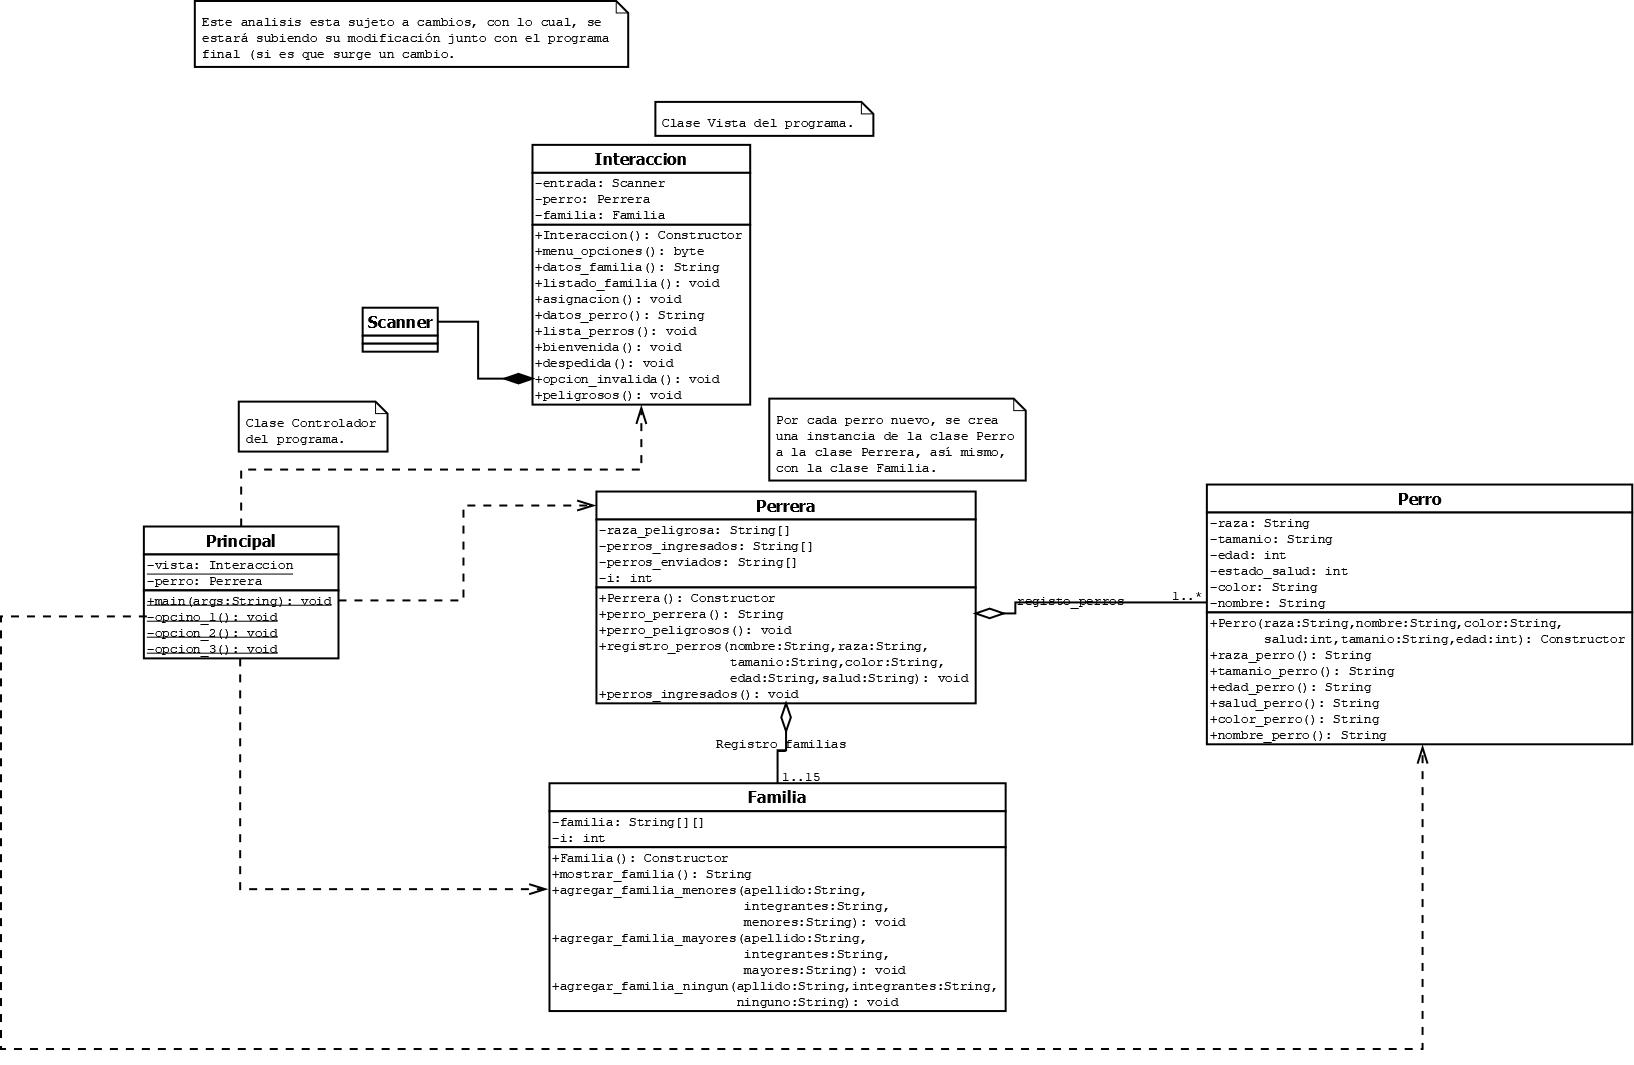
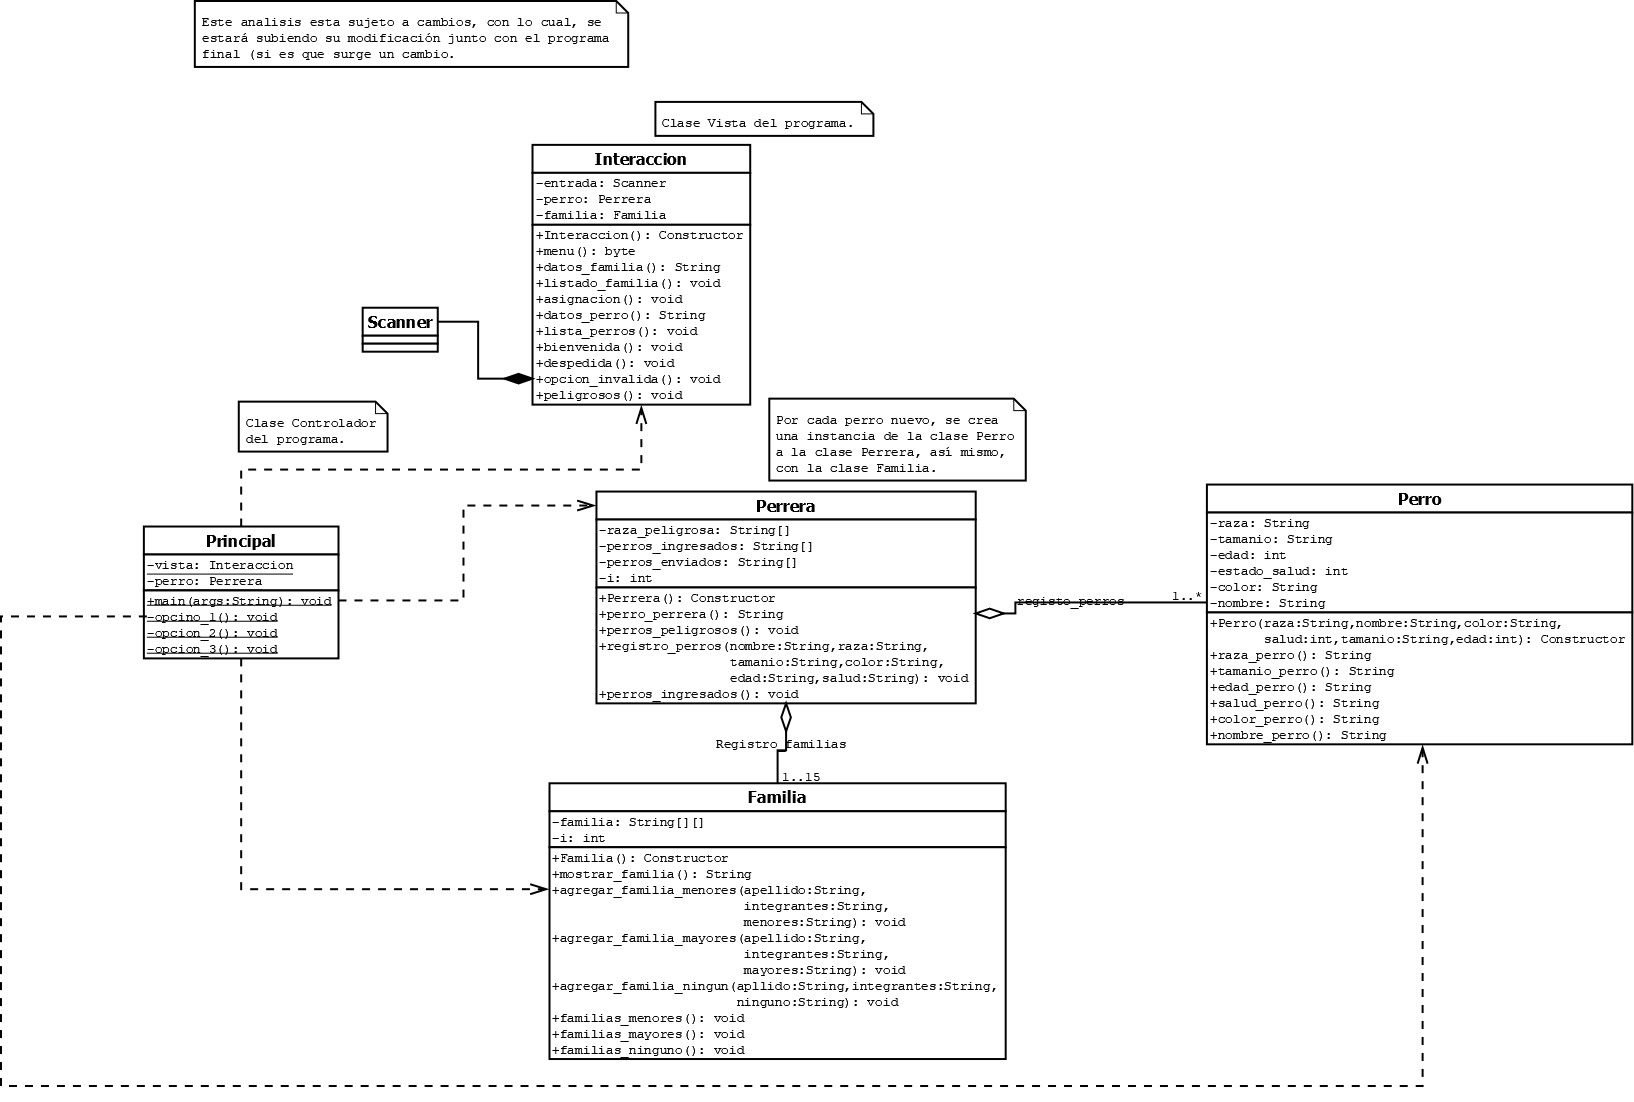
Subida de las utlimas modificaciones?

diff --git a/Interaccion.java b/Interaccion.java
@@ -82,6 +82,9 @@ public class Interaccion {
         familia.mostrar_familia();
     }
 
+    /**
+     * busqueda de las familais segun su categorias
+     */
     public void asignacion() {
         familia.familias_mayores();
         familia.familias_menores();
